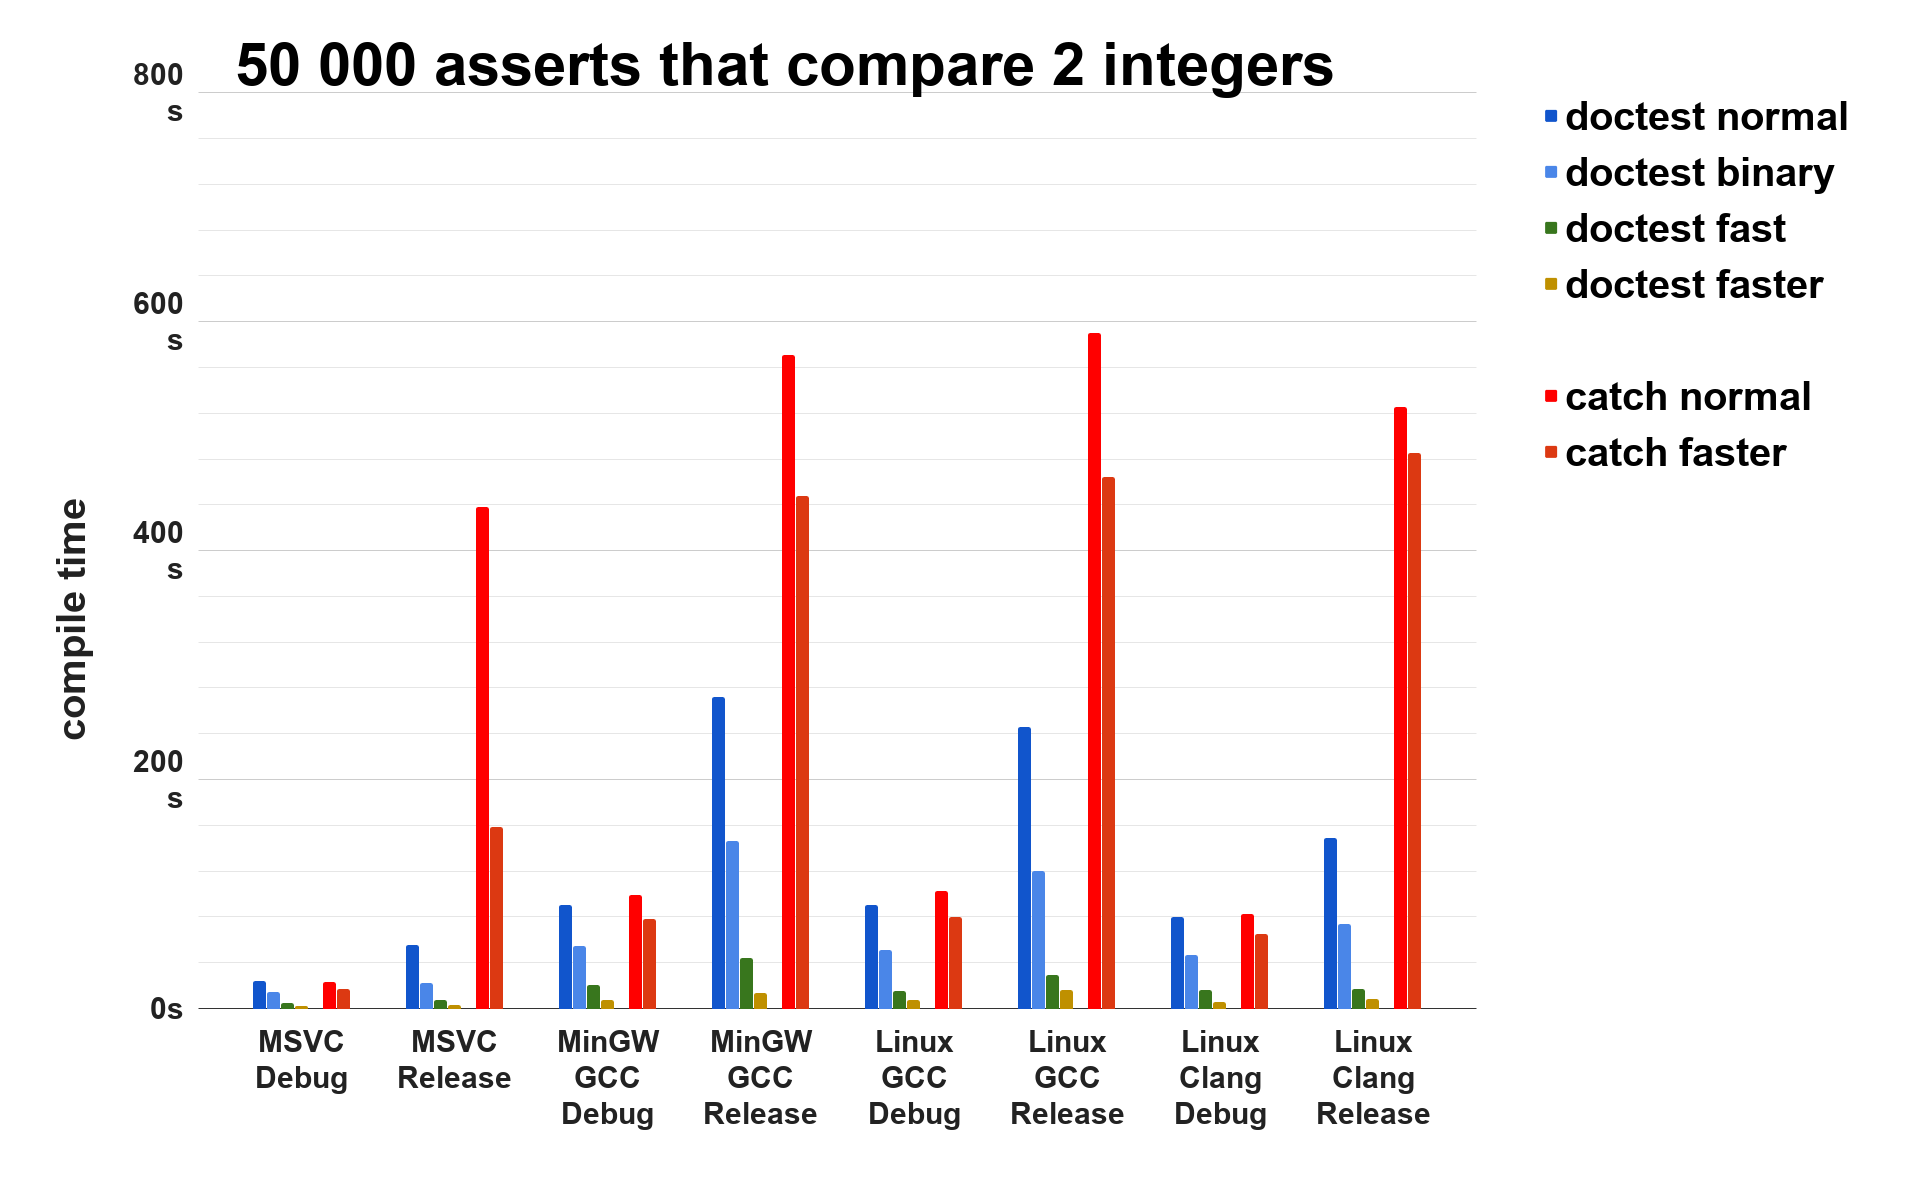
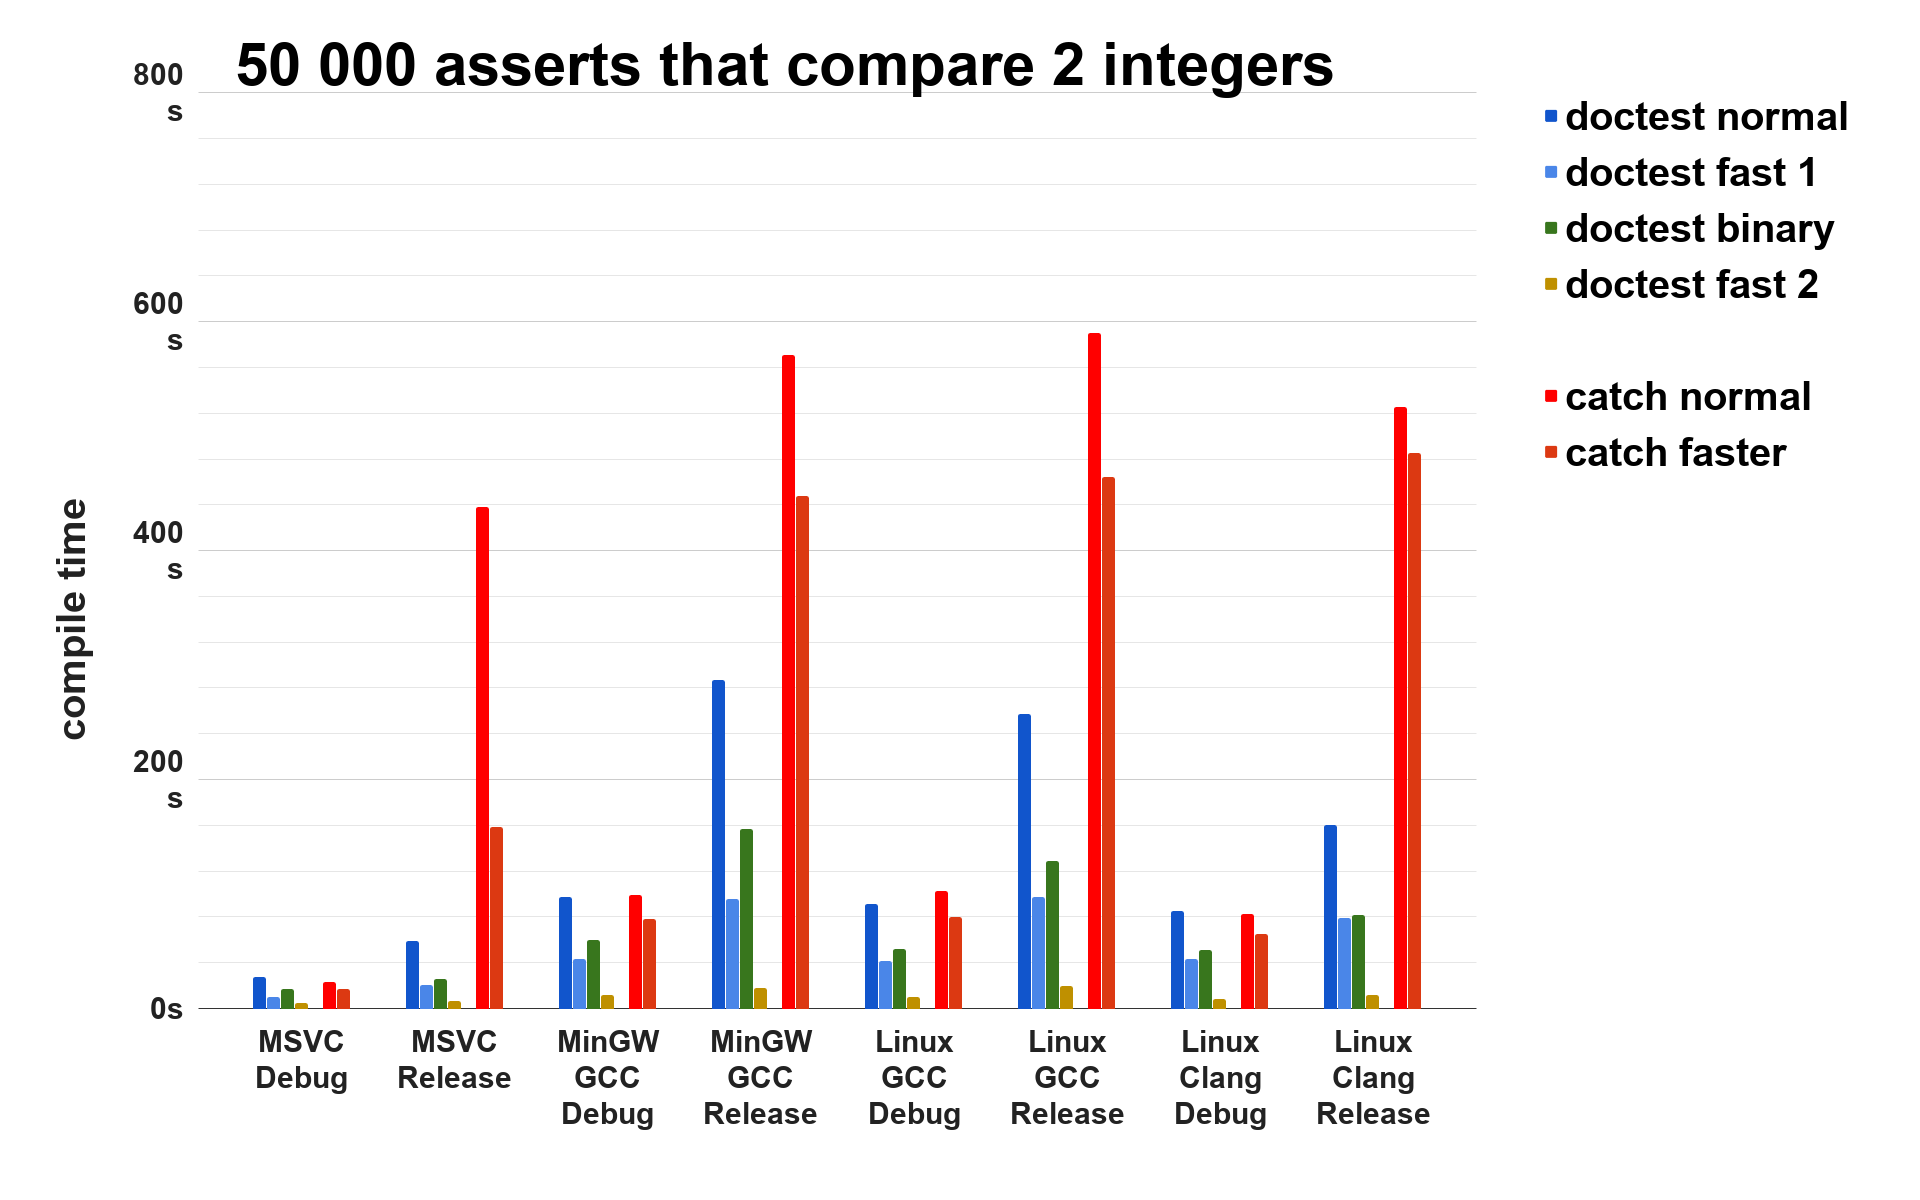
updated docs

diff --git a/doc/markdown/benchmarks.md b/doc/markdown/benchmarks.md
@@ -139,15 +139,15 @@ And here is [**Catch**](https://github.com/philsquared/Catch) which only has nor
 **doctest**:
 
 - is between 0 and 8 times faster than [**Catch**](https://github.com/philsquared/Catch) when using normal expression decomposing ```CHECK(a==b)``` asserts
-- asserts of the form ```CHECK_EQ(a,b)``` with no expression decomposition - around 31%-63% faster than ```CHECK(a==b)```
-- the [**```DOCTEST_CONFIG_SUPER_FAST_ASSERTS```**](configuration.md#doctest_config_super_fast_asserts) identifier which makes the fast assertions even faster by another 55-78%
-- TODO: mention the super fast mode with normal asserts vs the fast compile option of catch
-- using the [**```DOCTEST_CONFIG_DISABLE```**](configuration.md#doctest_config_disable) identifier the assertions just disappear as if they were never written - even lower than the baseline (because most of the implementation is also gone)
+- asserts of the form ```CHECK_EQ(a,b)``` with no expression decomposition - around 31-63% faster than ```CHECK(a==b)```
+- the [**```DOCTEST_CONFIG_SUPER_FAST_ASSERTS```**](configuration.md#doctest_config_super_fast_asserts) identifier makes the normal asserts faster by 57-68%
+- the [**```DOCTEST_CONFIG_SUPER_FAST_ASSERTS```**](configuration.md#doctest_config_super_fast_asserts) identifier makes the binary asserts even faster by another 84-91%
+- using the [**```DOCTEST_CONFIG_DISABLE```**](configuration.md#doctest_config_disable) identifier the asserts just disappear as if they were never written - even lower than the baseline (because most of the implementation is also gone)
 
 [**Catch**](https://github.com/philsquared/Catch):
 
-- using [**```CATCH_CONFIG_FAST_COMPILE```**](https://github.com/philsquared/Catch/blob/master/docs/configuration.md#catch_config_fast_compile) results in 10%-30% faster build times for asserts (and in one case 73%).
-- using the **```CATCH_CONFIG_DISABLE```** identifier provides the same great benefits for assertion macros as the doctest version ([**```DOCTEST_CONFIG_DISABLE```**](configuration.md#doctest_config_disable)) - unlike in the case for the header cost
+- using [**```CATCH_CONFIG_FAST_COMPILE```**](https://github.com/philsquared/Catch/blob/master/docs/configuration.md#catch_config_fast_compile) results in 10-30% faster build times for asserts (and in one case 73%).
+- using the **```CATCH_CONFIG_DISABLE```** identifier provides the same great benefits for assert macros as the doctest version ([**```DOCTEST_CONFIG_DISABLE```**](configuration.md#doctest_config_disable)) - but not for the header cost
 
 ## Runtime benchmarks
 

diff --git a/doc/markdown/assertions.md b/doc/markdown/assertions.md
@@ -44,7 +44,7 @@ Example:
 REQUIRE_FALSE(thisReturnsFalse());
 ```
 
-- Using the [**```DOCTEST_CONFIG_SUPER_FAST_ASSERTS```**](configuration.md#doctest_config_super_fast_asserts) config option can make compilation of asserts up to [**XX-XX%**](benchmarks.md#cost-of-an-assertion-macro) faster!
+- Using the [**```DOCTEST_CONFIG_SUPER_FAST_ASSERTS```**](configuration.md#doctest_config_super_fast_asserts) config option can make compilation of asserts up to [**31-63%**](benchmarks.md#cost-of-an-assertion-macro) faster!
 - These asserts also have a ```_MESSAGE``` form - like ```CHECK_MESSAGE(expression, message)``` which is basically a code block ```{}``` with a scoped [**```INFO()```**](logging.md#info) logging macro together with the ```CHECK``` macro - that way the message will be relevant only to that assert. The binary/unary asserts don't have this variation yet.
 
 Examples:
@@ -63,7 +63,7 @@ For more information about the ```INFO()``` macro and logging with the streaming
 
 These asserts don't use templates to decompose the comparison expressions for the left and right parts.
 
-These have the same guarantees as the expression decomposing ones but [**XX%-XX% faster**](benchmarks.md#cost-of-an-assertion-macro) for compilation.
+These have the same guarantees as the expression decomposing ones but [**57-68% faster**](benchmarks.md#cost-of-an-assertion-macro) for compilation.
 
 ```<LEVEL>``` is one of 3 possible: ```REQUIRE```/```CHECK```/```WARN```.
 
@@ -76,7 +76,7 @@ These have the same guarantees as the expression decomposing ones but [**XX%-XX%
 - ```<LEVEL>_UNARY(expr)``` - same as ```<LEVEL>(expr)```
 - ```<LEVEL>_UNARY_FALSE(expr)``` - same as ```<LEVEL>_FALSE(expr)```
 
-Using the [**```DOCTEST_CONFIG_SUPER_FAST_ASSERTS```**](configuration.md#doctest_config_super_fast_asserts) config option can make compilation of asserts up to [**XX-XX%**](benchmarks.md#cost-of-an-assertion-macro) faster!
+Using the [**```DOCTEST_CONFIG_SUPER_FAST_ASSERTS```**](configuration.md#doctest_config_super_fast_asserts) config option can make the binary asserts to compile up to [**84-91%**](benchmarks.md#cost-of-an-assertion-macro) faster!
 
 ## Exceptions
 

diff --git a/doc/markdown/faq.md b/doc/markdown/faq.md
@@ -59,7 +59,7 @@ using doctest::Approx;
 
 ### How to get the best compile-time performance with the framework?
 
-The [**```DOCTEST_CONFIG_SUPER_FAST_ASSERTS```**](configuration.md#doctest_config_super_fast_asserts) config option yelds the [**fastest possible**](benchmarks.md#cost-of-an-assertion-macro) compile times (up to XX-XX%). Also the expression-decomposing template machinery can be skipped by using the [**binary**](assertions.md#binary-and-unary-asserts) asserts.
+The [**```DOCTEST_CONFIG_SUPER_FAST_ASSERTS```**](configuration.md#doctest_config_super_fast_asserts) config option yelds the [**fastest possible**](benchmarks.md#cost-of-an-assertion-macro) compile times (up to 31-91%). Also the expression-decomposing template machinery can be skipped by using the [**binary**](assertions.md#binary-and-unary-asserts) asserts.
 
 There are only 2 tiny drawbacks of using this config option:
 

diff --git a/doc/markdown/features.md b/doc/markdown/features.md
@@ -32,7 +32,7 @@
 	- all tests built and ran in **Debug**/**Release** modes
 	- all tests ran through **valgrind** under **Linux** (sadly [not under OSX](https://github.com/onqtam/doctest/issues/11))
 	- all tests ran through **address**, **UB** and **thread** sanitizers under **Linux**/**OSX**
-	- tests are ran in more than **168** different configurations on UNIX (Linux + OSX) on **travis** CI
+	- tests are ran in more than **140** different configurations on UNIX (Linux + OSX) on **travis** CI
 	- tests are ran in a total of **10** different configurations on Windows on **appveyor** CI
 
 ## Other features:
